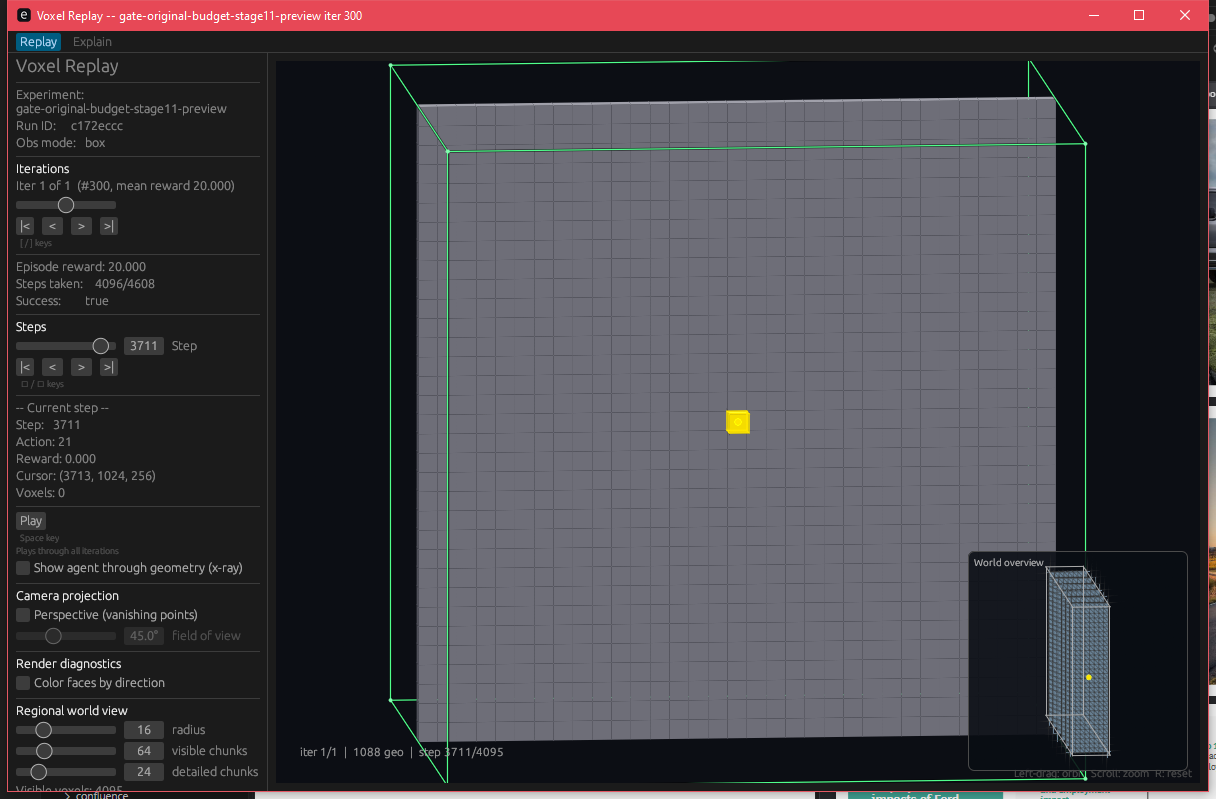
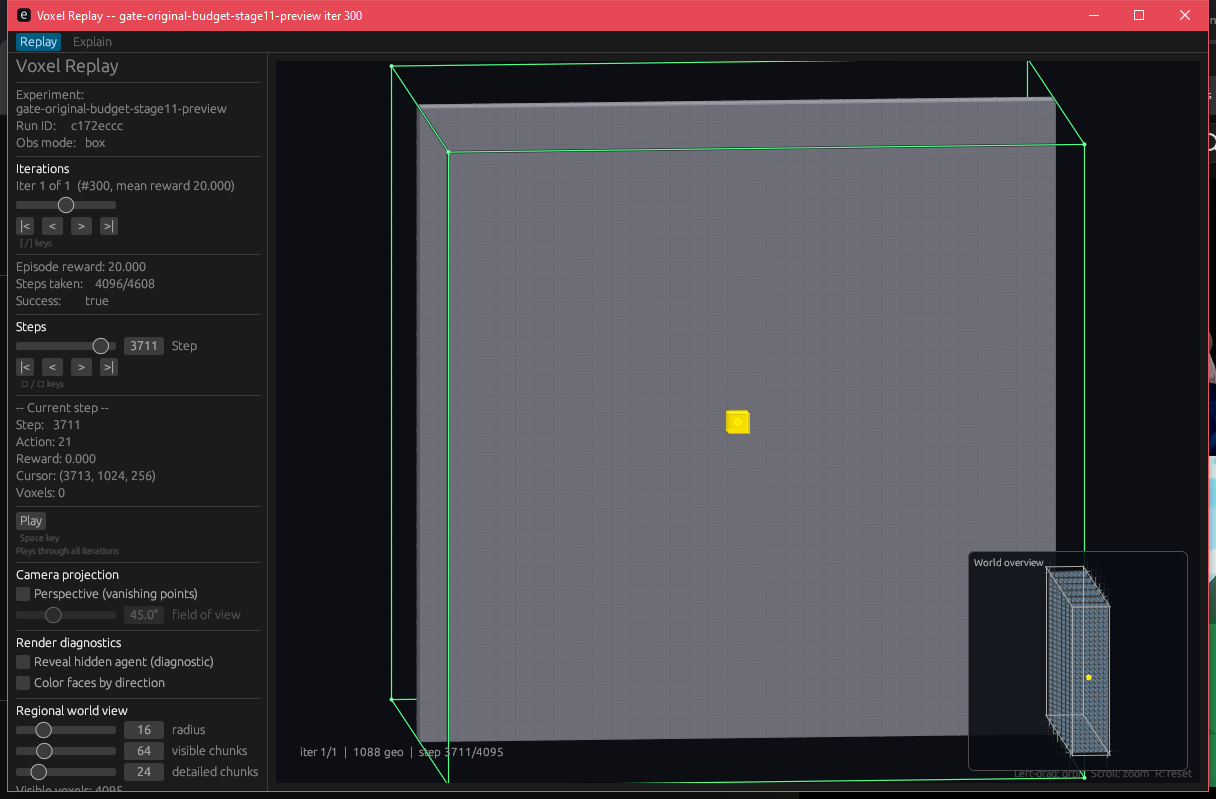
Publish four-state large-world replay visibility proof (#428)

diff --git a/usage/experiments/replay_visibility_428/README.md b/usage/experiments/replay_visibility_428/README.md
@@ -1,20 +1,24 @@
-# Stage-11 agent visibility regression (#428)
+# Large-world replay agent visibility (#428)
 
-The frozen stage-11 large-world trajectory from [PR #410](https://github.com/amadou-6e/theseo-anysearch/pull/410) has a successful 4096-step episode. At step **3711**, the cursor is `(3713, 1024, 256)`, one voxel beyond the final gate wall at X=3712. The old replay converted this cursor to storage `(3712, 1023, 255)` and painted all wall geometry over the agent. The training environment's `WorldState::storage` uses the recorded coordinates directly, so the replay conversion was incorrect.
+The frozen stage-11 trajectory from [PR #410](https://github.com/amadou-6e/theseo-anysearch/pull/410) crosses the final single-voxel gate at X=3712. The original replayer shifted cursor coordinates by one storage voxel and painted all geometry after the agent. It could therefore hide the agent even when the wall was behind it. [before.png](before.png) is the unedited original failure.
 
-| Original replay, normal depth | Fixed replay, normal depth | Fixed replay, x-ray |
+The fixed replayer always uses physical depth ordering. Its agent is a filled yellow voxel. **Show trail** is offered only for non-compiled trajectories with trail data; this compiled-world trajectory has no trail and the control is absent in all four screenshots. **Reveal hidden agent (diagnostic)** is a separate, unchecked-by-default control. When checked, it adds a translucent dashed outline through geometry and a conspicuous viewport badge. It does not change normal rendering or wall opacity.
+
+| Camera relationship | Diagnostic unchecked (normal) | Diagnostic checked |
 | --- | --- | --- |
-| ![Agent missing behind wall](before.png) | ![Filled yellow agent visible in front of wall](after.png) | ![Diagnostic x-ray frame](xray.png) |
+| Agent in front of wall; step 3711, cursor `(3713,1024,256)` | ![Filled agent is visible](after.png) | ![Visible agent with diagnostic badge](agent-front-diagnostic.png) |
+| Wall in front of agent; step 3713, cursor `(3715,1024,256)` | ![Opaque wall hides agent](wall-front-normal.png) | ![Dashed location overlay shows agent while wall remains visible](wall-front-diagnostic.png) |
 
-The measured 81×81-pixel region around the gate contains **0** yellow pixels in the original normal-depth frame, **528** in the fixed normal-depth frame, and **528** with x-ray enabled. The fixed screenshot is an actual Windows GUI capture, not a synthetic illustration. The normal-depth box is unchecked in `after.png`.
+These are actual Windows GUI captures, not illustrations. In the fixed 81×81-pixel region around the agent, the four states respectively contain **523**, **561**, **0**, and **257** yellow pixels. The checked states both contain the diagnostic badge; the unchecked states do not. The wall-front normal frame leaves the final gate aperture visible but hides the agent completely: **zero strong or muted yellow pixels** remain in that region. Opaque wall-face edges seal anti-aliased tile seams while a separate subtle grid remains visible. See [capture.json](capture.json) for hashes, exact source and trajectory identities, and measured counts. Three unit tests cover when the trail control is offered; the full `theseo-core` test suite passes.
 
-To reproduce on Windows at 100% display scaling, build the replayer from source commit `e5fff890b620827ce86e65838a3024f522335f21` or later, then run:
+To reproduce on Windows at 100% display scaling, build the replayer from source commit `c422b17a1d122596e1ce7a6d1b82d5aeaa1e02d8` or later. Run both views against the frozen PR #410 trajectory:
 
 ```powershell
 cargo build --manifest-path theseo_anysearch/core/Cargo.toml --bin voxel-replay --offline
-powershell -NoProfile -ExecutionPolicy Bypass -File usage/experiments/replay_visibility_428/capture.ps1 -Trajectory C:\path\to\iter_000300.json
+powershell -NoProfile -ExecutionPolicy Bypass -File usage/experiments/replay_visibility_428/capture.ps1 -View AgentFront -Trajectory C:\path\to\iter_000300.json
+powershell -NoProfile -ExecutionPolicy Bypass -File usage/experiments/replay_visibility_428/capture.ps1 -View WallFront -Trajectory C:\path\to\iter_000300.json
 ```
 
[2 lines of base64/hex data omitted]
 
-The published fixed-frame hashes and source identity are in [capture.json](capture.json). Governing perception-encoder specs are pinned at [`a94227bc4ee484287a026f89ec6cd47d5ca16d26`](https://github.com/amadou-6e/specs/tree/a94227bc4ee484287a026f89ec6cd47d5ca16d26/projects/theseo-anysearch/python).
+Governing perception-encoder specs are pinned at [`a94227bc4ee484287a026f89ec6cd47d5ca16d26`](https://github.com/amadou-6e/specs/tree/a94227bc4ee484287a026f89ec6cd47d5ca16d26/projects/theseo-anysearch/python).
